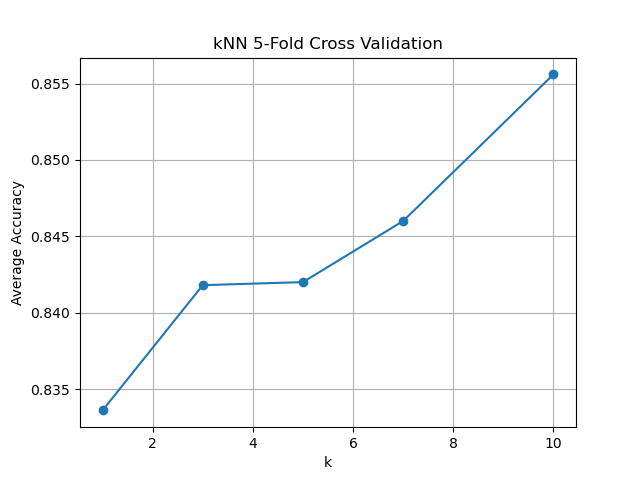
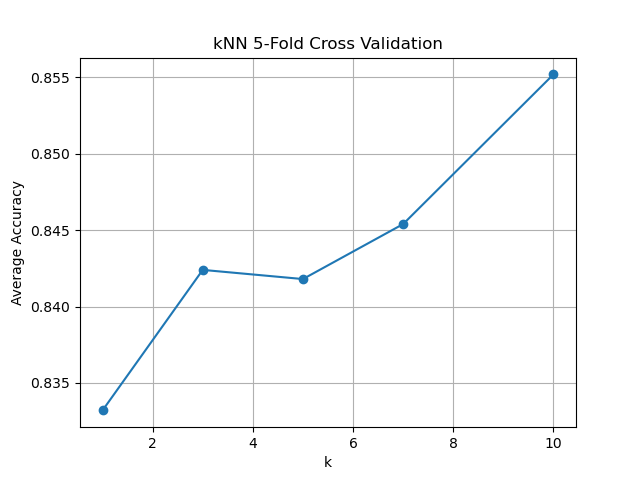
Update KNN and Results

diff --git a/ROC.py b/ROC.py
@@ -36,11 +36,11 @@ def ROC_Emails():
     plt.show()
 
 def Accuracy_KNN():
-    points = np.array([[1, 0.8335999999999999],
-    [3, 0.8417999999999999],
-    [5, 0.842],
-    [7, 0.8460000000000001],
-    [10, 0.8555999999999999]])
+    points = np.array([[1, 0.8332],
+    [3, 0.8423999999999999],
+    [5, 0.8417999999999999],
+    [7, 0.8454],
+    [10, 0.8552]])
     
     plt.plot(points[:, 0], points[:, 1], marker = 'o')
     plt.xlabel("k")
@@ -49,9 +49,22 @@ def Accuracy_KNN():
     plt.grid(True)
     plt.show()
 
+def ROC_Given_Confidence():
+    FPR = [0, 0, 1/4, 1/2, 1]
+    TPR = [0, 1/3, 2/3, 1, 1]
+
+    plt.plot(FPR, TPR, marker = 'o', clip_on = False)
+    plt.xlabel("False Positive Rate")
+    plt.ylabel("True Positive Rate")
+    plt.xlim(0, 1.05)
+    plt.ylim(0, 1.05)
+    plt.title("ROC Curve")
+    plt.show()
+
 def main():
     # ROC_Emails()
     Accuracy_KNN()
+    # ROC_Given_Confidence()
 
 if __name__ == '__main__':
     main()

diff --git a/KNN.py b/KNN.py
@@ -13,13 +13,13 @@ class K_Nearest_Neighbors():
         distances = [self.euclidean(test_features) for test_features in X]
         dist_sorted_labels = []
         for i in range(len(distances)):
-            dist_sorted_labels.append([y for _, y in sorted(zip(distances[i], self.y))])
+            dist_sorted_labels.append([y for _, _, y in sorted(zip(distances[i], range(len(distances[i])), self.y))])
 
         return dist_sorted_labels
     
     def predictions(self, X_test):
         dist_sorted_labels = self.sort_test_distances(X_test)
-        predicted_labels = np.array([1 if np.count_nonzero(sorted_labels_curr[:self.k]) > self.k // 2 else 0 for sorted_labels_curr in dist_sorted_labels])
+        predicted_labels = np.array([1 if np.count_nonzero(sorted_labels_curr[:self.k]) > self.k / 2 else 0 for sorted_labels_curr in dist_sorted_labels])
         return predicted_labels
     
     def predictions_prob(self, X_test):

diff --git a/EmailsKNN.py b/EmailsKNN.py
@@ -64,11 +64,11 @@ def main():
     X = np.array(data.iloc[:, 1:-1])
     y = np.array(data.iloc[:, -1])
 
-    # for k in [1, 3, 5, 7, 10] :
-    #     accuracy, precision, recall = five_fold_cross_validation(X, y, k)
-    #     print("Averages:", k, accuracy, precision, recall)
+    for k in [1, 3, 5, 7, 10] :
+        accuracy, precision, recall = five_fold_cross_validation(X, y, k)
+        print("Averages:", k, accuracy, precision, recall)
 
-    model_roc_curve(X, y)
+    # model_roc_curve(X, y)
 
 if __name__ == '__main__':
     main()
